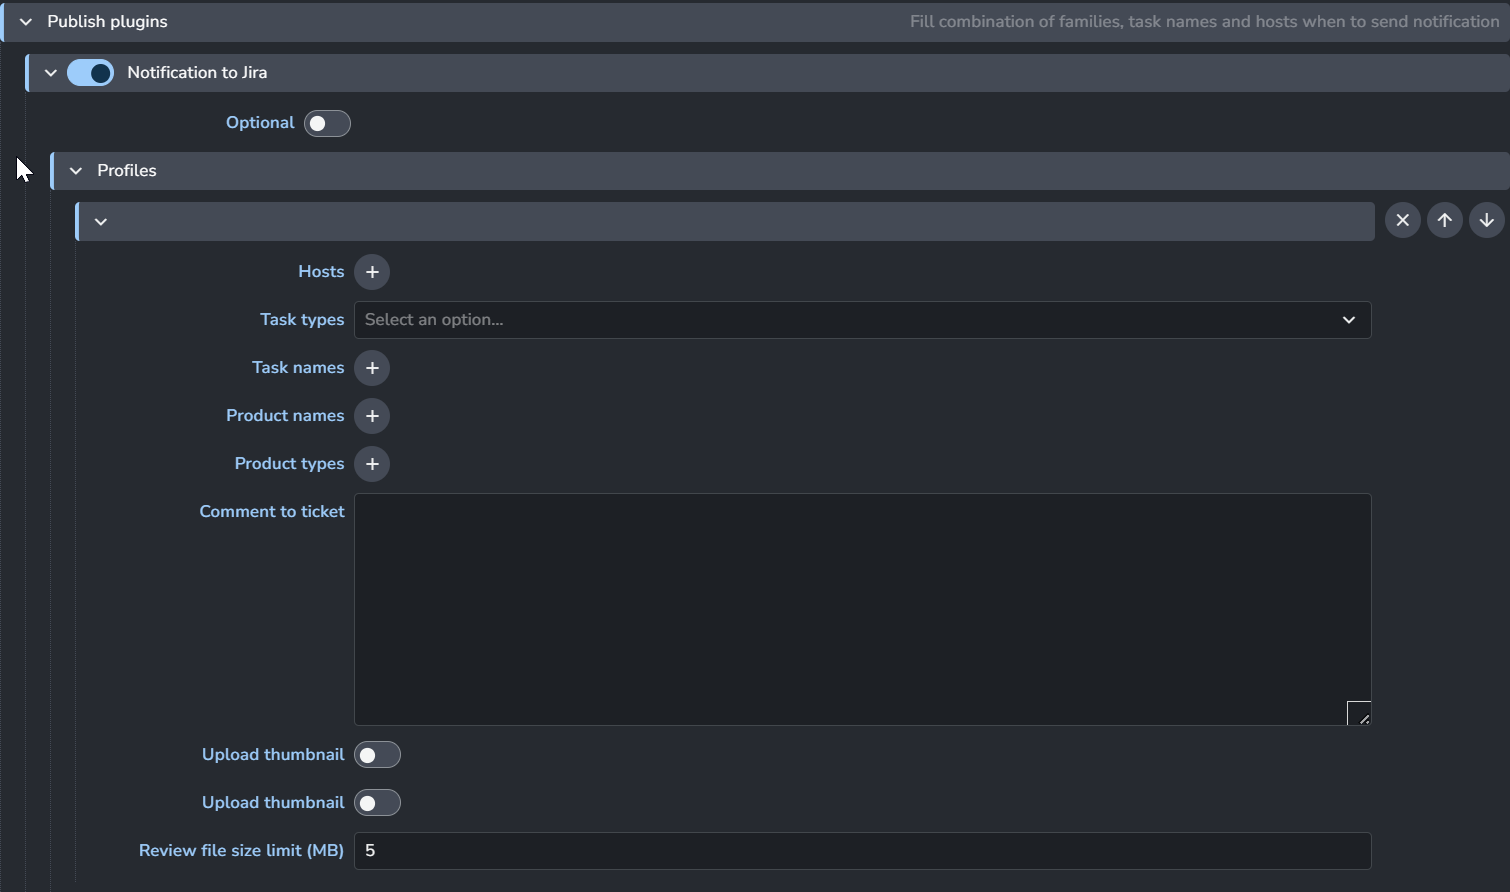
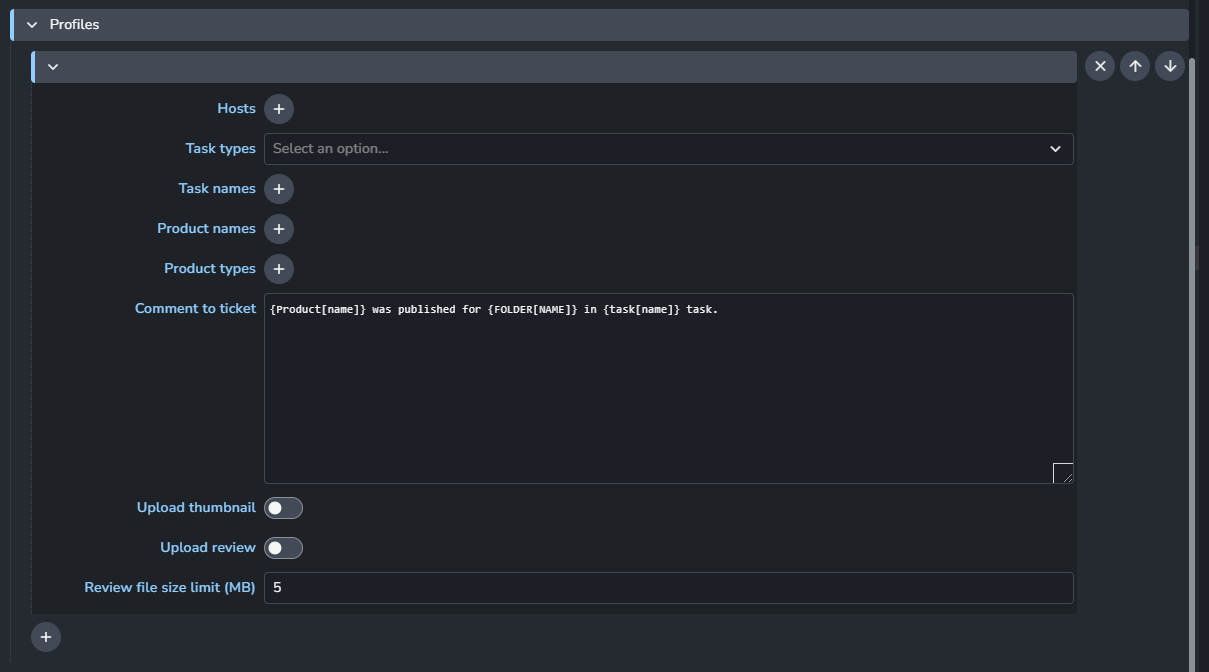
enhance jira admin docs

diff --git a/website/docs/addon_jira_admin.md b/website/docs/addon_jira_admin.md
@@ -18,39 +18,29 @@ import TabItem from '@theme/TabItem';
 
 ## Introduction
 
-This addon provide initial attempt at integration with ticketing system Jira. This should allow to setup matching Jira
-tickets to AYON tasks and update its status.
+Jira Addon provides an initial attempt at integrating with the ticketing system Jira. This should allow setting up matching Jira tickets to AYON tasks and updating their status.
 
-Addon's two main functionalities:
+The addon's two main functionalities are:
 - "Preparation of AYON and Jira tickets"
-- "Sending notifications to Jira",
+- "Sending notifications to Jira"
 
-These allow to create multiple AYON tasks and matching Jira tickets on any folder path (`characters/Alice`, `sequences/seq01/shots/shot01/`).
+These functionalities allow the creation of multiple AYON tasks and matching Jira tickets on any folder path (e.g., `characters/Alice`, `sequences/seq01/shots/shot01/`).
 
-It also allows to update state of Jira ticket by sending comments to the ticket during publishing of matching task
-(and possibly uploading thumbnails or reviews).
+It also allows updating the state of a Jira ticket by sending comments to the ticket during the publishing of the matching task (and possibly uploading thumbnails or reviews).
 
 
 ## Preparation of AYON and Jira tickets
 
-Addon exposes creation of set of AYON and matching Jira tickets based on a prepared templates. 
+The addon allows the creation of a set of AYON and matching Jira tickets based on prepared templates.
 
-These templates are currently located in `server/templates`, they come in pairs, ending with `_Ayon_Template.json` and `_Jira_Template.json`.
-Workflow for allowing multiple Jira tickets connected to single AYON task was implemented based on requirements.
+These templates are currently located in `server/templates`. They come in pairs, ending with `_Ayon_Template.json` and `_Jira_Template.json`. 
+It's possible to have multiple Jira tickets connected to a single AYON task.
+
+:::info
+To add a new template, modify the source code of the addon by adding new templates to the `server/templates` folder. Then, run `create_package.py` and upload it to AYON.
+:::
 
 ### Jira template
-
-Example shows that 2 Jira tickets should be created, each value enclosed in `%` will be replaced by appropriate
-value provided by whoever is triggering ticket creation via front end part of this addon.
-(`%Tier1CharacterNameOutfitName%` in this example would be replaced by name of character, eg. `Robot` etc.)
-
-`Epic Link` would be used as a name of Epic, all tickets with same value would be joined to the Epic
-`AYON Task` will contain unique id to AYON task after its creation
-`Summary` is used as name of ticket
-`Description` is description of the ticket
-`Custom ID` is unique number in this field for all tickets in the template, it creates `Depends_On` and `Unblocks`
-links between Jira tickets. (Key of Jira ticket would be required for that, which is unknown until creation.
-Values here are stand-ins to be replaced with appropriate ticket key.)
 
 ```json title="ayon-jira\server\templates\Tier_1_Outfit_Jira_Template.json"
 {
@@ -70,31 +60,45 @@ Values here are stand-ins to be replaced with appropriate ticket key.)
             "Int vs Ext": "Internal"
         },
         {
-            "Epic Link": "%Tier1CharacterNameOutfitName% - Concept",
-            "Component": "Narrative",
-            "AYON Task": "",
-            "Summary": "Create narrative description for %Tier1CharacterNameOutfitName%'s secondary outfit",
-            "Description": "What does this secondary  outfit need to accomplish narratively?",
-            "Custom ID": "3",
-            "Depends_On": "",
-            "Unblocks": "4",
+            "Epic Link": "%Tier1CharacterNameOutfitName% - Stood Up",
+            "Component": "Character Art",
+            "AYON Task": "Model",
+            "Summary": "Create proxy mesh for %Tier1CharacterNameOutfitName% secondary outfit",
+            "Description": "Matching concept and base body mesh proportions and joint locations, model/sculpt the proxy secondary  outfit for  %Tier1CharacterNameOutfitName%.  This mesh is a  clean animatable decimation fully representing the silhouette and overall proportions of the model including all of its secondary pieces and character customization requirements (ie - Jacket on/off if applicable).  This version must be delivered to and approved by Tech-Anim for proper deforming/animating, before continuing with the next stages.  The proxy does not have to be fully optimized but please stay within reasonable poly count (150k tris) for delivery.  Do not texture and UV this character but do assign material ID's and auto-unwrap so that we can place tinted tiling materials over the appropriate locations of the character for more accurate presentation and review in engine.  Review by Art Director, Lead, Tech Anim.  Initial delivery for review as DCC files.",
+            "Custom ID": "8",
+            "Depends_On": "7",
+            "Unblocks": "9, 11",
             "IssueType": "Task",
             "Priority": "Medium",
-            "Original Estimate": "0.5",
-            "Int vs Ext": "Internal"
-        }
+            "Original Estimate": "4",
+            "Int vs Ext": ""
+        },
+        
     ]
 }
 ```
 
+Example shows that 2 Jira tickets should be created, each value enclosed in `%` will be replaced by appropriate
+value provided by whoever is triggering ticket creation via front end part of this addon.
+(`%Tier1CharacterNameOutfitName%` in this example would be replaced by name of character, eg. `Robot` etc.)
+
+- **Epic Link**: Name of the Epic. All tickets with the same value will be linked to the same Epic.
+- **Component**: Group or department name associated with the ticket.
+- **AYON Task**: AYON Task name.
+- **Summary**: Name of the ticket.
+- **Description**: Description of the ticket.
+- **Custom ID**: A unique number used to identify the ticket within the template.
+- **Depends_On** and **Unblocks**: Define links between Jira tickets based on the Custom ID.
+- **IssueType**: Type of issue for the ticket.
+- **Priority**: Priority level of the ticket.
+- **Original Estimate**: Initial prediction of how long the task will take, following your default time unit.
+- **Int vs Ext**: Specify whether the ticket is Internal or External.
+  
+:::tip
+On Jira ticket creation, **Custom ID** and **AYON Task** will be replaced with the actual ticket key and task ID, which are only known upon creation.
+:::
+
 ### AYON template
-
-Example AYON templates shows that 2 tasks should be created, `Concept` and `Model`.
-
-`"concept_jira_id": "5"` points to identifier '5' from `Jira_Template.Custom ID` field and creates link between AYON task and Jira ticket.
-These custom id identifiers must be unique in `Jira_Template` file.
-
-`"concept_jira_ticket": ""` will be filled by Jira ticket key (`KAN-201`) when ticket is created
 
 ```json title="ayon-jira\server\templates\Tier_1_Outfit_Ayon_Template.json"
 {    
@@ -109,40 +113,36 @@ These custom id identifiers must be unique in `Jira_Template` file.
                 "current_phase": "",
                 "stood up_jira_id": "8",
                 "stood up_jira_ticket": "",
-                "presentable_jira_id": "15",
-                "presentable_jira_ticket": "",
-                "shippable_jira_id": "17",
-                "shippable_jira_ticket": "",
-                "polished_jira_id": "19",
-                "polished_jira_ticket": ""
             }
         }
     }
 }
 ```
 
+Example AYON templates show that two tasks should be created: `Concept` and `Model`.
+
+- **current_phase**: Jira Current Phase
+- **{epic}_jira_id**: Links tickets by `Custom ID`. For example, `"concept_jira_id": "5"` points to a ticket with `"Custom ID": "5"` from the `Jira_Template` and creates a link between the AYON task and the Jira ticket.
+- **{epic}_jira_ticket**: Will be filled by the Jira ticket key, e.g., `KAN-201`, when the ticket is created.
 
 ### Triggering of creation
 
-![](assets/jira/jira_frontend.png)
+![](assets/jira/jira_frontend.gif)
 
 :::tip
 Front end form is provided by this addon (addon must be added to `production` bundle!).
+The frontend is added within each project.
 :::
 
 It contains fields:
-- `Folder path` - should contain path of asset for which task(s) defined in the templates should be created
-  - value could be easily copied from:
-    - copy box in the top middle in `Browser` page in the Project on AYON server
-    - from right column with details for folder in the same page
-    - project name prefix is not required, but doesn't cause an issue
-- `Jira project key` - identifier of Jira project
+- `Folder path` - should contain path of folder path for which task(s) defined in the templates should be create.
+    you can fill in the value manually or you can use the eye drop icon to select your folder path.
 - `Templates` - dropdown to select implemented templates
 
 After providing values for these fields, `Create` button could be triggered.
 
 
-### Installation and configuration
+## Installation and configuration
 
 Addon is expected to be built by cloning it first from Github, then running `create_package.py` which will result
 in zip file in `package` folder. This file should be used to be installed on AYON server.
@@ -154,30 +154,68 @@ Before running `create_packages`:
 
 These parts of workflow are a bit manual process right now, but it is expected to be enhanced in the future.
 
-##### AYON Settings
+## AYON Settings
 
-Settings could be set in `Studio Settings` or override per project in `Project Settings`.
+### Jira Credentials
 
-Jira server url, username, password and jira project code needs to be provided for creation of tickets and notifications.
+> Settings Location: `ayon+settings://jira` or override per project `ayon+settings://jira?project={project_name}`
 
 ![Jira Credentials](assets/jira/jira_studio_settings.png)
 
-`ayon+settings://jira/phases` contains list of phases, where phase selects appropriate Jira ticket for single AYON task.
-This phase must be set in right column of `Editor` page on the AYON server (on folder, eg. asset) before work starts
-on this AYON task.
+Jira credentials are used for creating tickets and notifications.
+You need to specify:
 
-Prefix value is used in task metadata as a part of key containing Jira ticket key.
+- **Jira server url**
+- **Jira username**
+- **Jira Password**
+- **Jira project code**: Identifier of Jira project
 
-`ayon+settings://jira/publish/CollectJiraNotifications` controls for which hosts/tasks/products comment to the
-Jira ticket should be sent.
+### List of process phases
 
+> Setting Location: `ayon+settings://jira/phases` or override per project `ayon+settings://jira/phases?project={project_name}`
+
+![](assets/jira/list_of_process_phases.png)
+
+It contains list of phases, where phase selects appropriate Jira ticket for single AYON task.
+
+1. **Phase Name**: Phase Name
+2. **Prefix Value**: is used in task metadata as a part of key containing Jira ticket key.
+3. **+**: Add more phases
+
+:::tip Set Phase to Folders and Tasks
+
+The phase must be set in the folder/task attributes, found in the right column of the Editor page on the AYON server (e.g., asset), before work starts on this AYON task.
+
+![](assets/jira/jira_current_phase.png)
+:::
+
+### Notification to Jira
+
+> Setting Location `ayon+settings://jira/publish/CollectJiraNotifications` 
+
+![](assets/jira/jira_notification_settings.png)
+
+It controls for which hosts/tasks/products comment to the Jira ticket should be sent.
+
+1. **Main Toggle**: Enable `Notification to Jira` feature.
+2. **Optional Toggle**: Allow users to disable this feature locally.
+3. **+**: Add Notification profiles.
+
+#### Notification profiles
 ![Jira Notification Profiles](assets/jira/jira_notification_profiles.png)
 
-Content of the comment is configurable with a use of Anatomy template keys, see https://ayon.ynput.io/docs/admin_settings_project_anatomy/#available-template-keys
-
+- **Hosts:** List of host names you want the plugin to work with.
+- **Task Types:** Choose from a list of task types to determine which ones the profile will affect.
+- **Task Names:** List of task names to determine which ones the profile will affect.
+- **Product names:** List of product names to determine which ones the profile will affect.
+- **Product types:** List of product types to determine which ones the profile will affect.
+- **Comment to ticket**: 
+Comment content can use template keys (see [Available template keys](admin_settings_project_anatomy.md#available-template-keys)).
+Few keys also have Capitalized and UPPERCASE format. Values will be modified accordingly. e.g. `{Folder[name]}` ➜ "Gun", `{PRODUCT[NAME]}` ➜ "RENDER".
 Please be careful about which placeholder you put into the message, as some of them are not applicable for all products (`frame` etc.)
-
-There is also possibility to upload `thumbnail` or `review` directly to the Jira ticket.
-
-Review might be too big to upload to occupy additional space on Jira, `Review file size limit` allows to replace upload
+:::tip Comment Example
+    {Product[name]} was published for {FOLDER[NAME]} in {task[name]} task.
+:::
+- **Upload thumbnail** and **Upload review**: Upload `thumbnail` and `review`, *if they are present in the publish*, to the Jira ticket.
+- **Review file size limit (MB)**: Review might be too big to upload to occupy additional space on Jira, `Review file size limit` allows to replace upload
 with link in the comment for too large review files.
